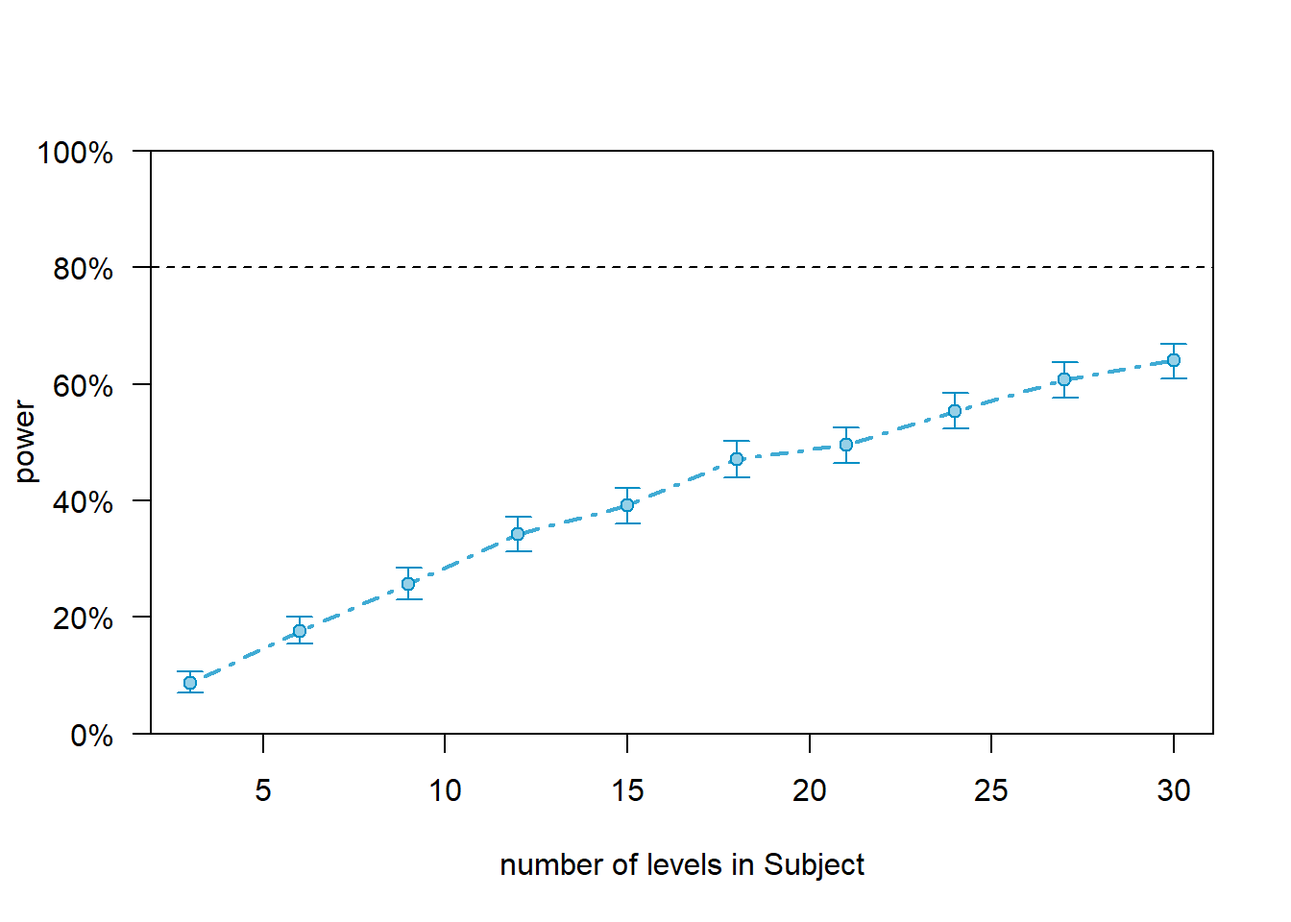
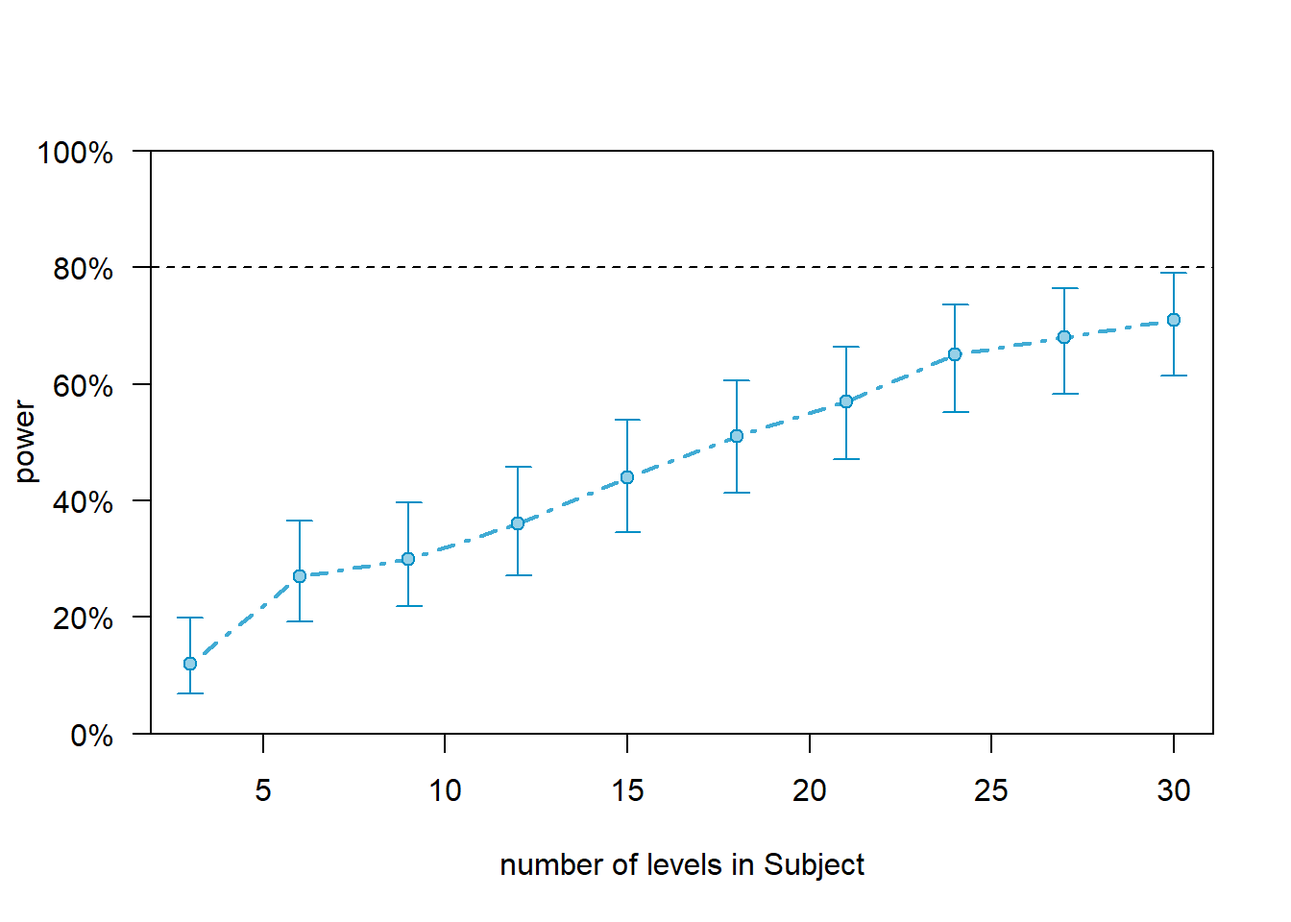
pwr and regression updates

diff --git a/pwr.html b/pwr.html
@@ -14,7 +14,7 @@
 
 <meta name="author" content="Martin Schweinberger" />
 
-<meta name="date" content="2021-04-10" />
+<meta name="date" content="2021-04-16" />
 
 <title>Power Analysis in R</title>
 
@@ -558,7 +558,7 @@ div.tocify {
 
 <h1 class="title toc-ignore">Power Analysis in R</h1>
 <h4 class="author">Martin Schweinberger</h4>
-<h4 class="date">2021-04-10</h4>
+<h4 class="date">2021-04-16</h4>
 
 </div>
 
@@ -627,8 +627,8 @@ simdat &lt;- data.frame(
   dplyr::mutate_if(is.character, factor) %&gt;%
   dplyr::rename(AOI = 4)</code></pre>
 <p>The data looks like this.</p>
-<div id="htmlwidget-9fdee75b28f501d1e669" style="width:100%;height:auto;" class="datatables html-widget"></div>
-<script type="application/json" data-for="htmlwidget-9fdee75b28f501d1e669">{"x":{"filter":"none","caption":"<caption>Overview of the data set.<\/caption>","data":[["Sub1","Sub1","Sub1","Sub1","Sub1","Sub1","Sub1","Sub1","Sub1","Sub1","Sub2","Sub2","Sub2","Sub2","Sub2","Sub2","Sub2","Sub2","Sub2","Sub2","Sub3","Sub3","Sub3","Sub3","Sub3","Sub3","Sub3","Sub3","Sub3","Sub3","Sub4","Sub4","Sub4","Sub4","Sub4","Sub4","Sub4","Sub4","Sub4","Sub4","Sub5","Sub5","Sub5","Sub5","Sub5","Sub5","Sub5","Sub5","Sub5","Sub5","Sub6","Sub6","Sub6","Sub6","Sub6","Sub6","Sub6","Sub6","Sub6","Sub6","Sub7","Sub7","Sub7","Sub7","Sub7","Sub7","Sub7","Sub7","Sub7","Sub7","Sub8","Sub8","Sub8","Sub8","Sub8","Sub8","Sub8","Sub8","Sub8","Sub8","Sub9","Sub9","Sub9","Sub9","Sub9","Sub9","Sub9","Sub9","Sub9","Sub9","Sub10","Sub10","Sub10","Sub10","Sub10","Sub10","Sub10","Sub10","Sub10","Sub10","Sub1","Sub1","Sub1","Sub1","Sub1","Sub1","Sub1","Sub1","Sub1","Sub1","Sub2","Sub2","Sub2","Sub2","Sub2","Sub2","Sub2","Sub2","Sub2","Sub2","Sub3","Sub3","Sub3","Sub3","Sub3","Sub3","Sub3","Sub3","Sub3","Sub3","Sub4","Sub4","Sub4","Sub4","Sub4","Sub4","Sub4","Sub4","Sub4","Sub4","Sub5","Sub5","Sub5","Sub5","Sub5","Sub5","Sub5","Sub5","Sub5","Sub5","Sub6","Sub6","Sub6","Sub6","Sub6","Sub6","Sub6","Sub6","Sub6","Sub6","Sub7","Sub7","Sub7","Sub7","Sub7","Sub7","Sub7","Sub7","Sub7","Sub7","Sub8","Sub8","Sub8","Sub8","Sub8","Sub8","Sub8","Sub8","Sub8","Sub8","Sub9","Sub9","Sub9","Sub9","Sub9","Sub9","Sub9","Sub9","Sub9","Sub9","Sub10","Sub10","Sub10","Sub10","Sub10","Sub10","Sub10","Sub10","Sub10","Sub10"],["Control","Control","Control","Control","Control","Control","Control","Control","Control","Control","Control","Control","Control","Control","Control","Control","Control","Control","Control","Control","Control","Control","Control","Control","Control","Control","Control","Control","Control","Control","Control","Control","Control","Control","Control","Control","Control","Control","Control","Control","Control","Control","Control","Control","Control","Control","Control","Control","Control","Control","Control","Control","Control","Control","Control","Control","Control","Control","Control","Control","Control","Control","Control","Control","Control","Control","Control","Control","Control","Control","Control","Control","Control","Control","Control","Control","Control","Control","Control","Control","Control","Control","Control","Control","Control","Control","Control","Control","Control","Control","Control","Control","Control","Control","Control","Control","Control","Control","Control","Control","Test","Test","Test","Test","Test","Test","Test","Test","Test","Test","Test","Test","Test","Test","Test","Test","Test","Test","Test","Test","Test","Test","Test","Test","Test","Test","Test","Test","Test","Test","Test","Test","Test","Test","Test","Test","Test","Test","Test","Test","Test","Test","Test","Test","Test","Test","Test","Test","Test","Test","Test","Test","Test","Test","Test","Test","Test","Test","Test","Test","Test","Test","Test","Test","Test","Test","Test","Test","Test","Test","Test","Test","Test","Test","Test","Test","Test","Test","Test","Test","Test","Test","Test","Test","Test","Test","Test","Test","Test","Test","Test","Test","Test","Test","Test","Test","Test","Test","Test","Test"],["1","2","3","4","5","6","7","8","9","10","1","2","3","4","5","6","7","8","9","10","1","2","3","4","5","6","7","8","9","10","1","2","3","4","5","6","7","8","9","10","1","2","3","4","5","6","7","8","9","10","1","2","3","4","5","6","7","8","9","10","1","2","3","4","5","6","7","8","9","10","1","2","3","4","5","6","7","8","9","10","1","2","3","4","5","6","7","8","9","10","1","2","3","4","5","6","7","8","9","10","1","2","3","4","5","6","7","8","9","10","1","2","3","4","5","6","7","8","9","10","1","2","3","4","5","6","7","8","9","10","1","2","3","4","5","6","7","8","9","10","1","2","3","4","5","6","7","8","9","10","1","2","3","4","5","6","7","8","9","10","1","2","3","4","5","6","7","8","9","10","1","2","3","4","5","6","7","8","9","10","1","2","3","4","5","6","7","8","9","10","1","2","3","4","5","6","7","8","9","10"],["AOI","NotAOI","NotAOI","AOI","NotAOI","NotAOI","AOI","NotAOI","NotAOI","AOI","NotAOI","NotAOI","AOI","NotAOI","NotAOI","AOI","NotAOI","NotAOI","AOI","NotAOI","AOI","NotAOI","NotAOI","NotAOI","NotAOI","AOI","NotAOI","NotAOI","AOI","NotAOI","NotAOI","NotAOI","NotAOI","NotAOI","NotAOI","NotAOI","NotAOI","NotAOI","AOI","NotAOI","NotAOI","NotAOI","NotAOI","AOI","NotAOI","AOI","NotAOI","NotAOI","NotAOI","NotAOI","NotAOI","NotAOI","NotAOI","NotAOI","NotAOI","AOI","NotAOI","NotAOI","NotAOI","NotAOI","AOI","AOI","NotAOI","NotAOI","NotAOI","NotAOI","AOI","AOI","AOI","AOI","NotAOI","NotAOI","NotAOI","NotAOI","NotAOI","NotAOI","NotAOI","NotAOI","NotAOI","NotAOI","NotAOI","NotAOI","NotAOI","NotAOI","NotAOI","NotAOI","NotAOI","NotAOI","NotAOI","NotAOI","NotAOI","NotAOI","NotAOI","NotAOI","NotAOI","NotAOI","NotAOI","NotAOI","NotAOI","NotAOI","NotAOI","AOI","AOI","NotAOI","AOI","AOI","NotAOI","AOI","NotAOI","AOI","AOI","NotAOI","NotAOI","NotAOI","NotAOI","AOI","NotAOI","AOI","AOI","NotAOI","AOI","NotAOI","NotAOI","NotAOI","NotAOI","NotAOI","AOI","NotAOI","NotAOI","NotAOI","AOI","NotAOI","AOI","NotAOI","AOI","NotAOI","NotAOI","NotAOI","AOI","AOI","NotAOI","NotAOI","NotAOI","NotAOI","NotAOI","AOI","AOI","AOI","NotAOI","AOI","NotAOI","NotAOI","NotAOI","AOI","NotAOI","NotAOI","NotAOI","NotAOI","NotAOI","NotAOI","NotAOI","NotAOI","NotAOI","AOI","NotAOI","NotAOI","AOI","NotAOI","NotAOI","NotAOI","AOI","NotAOI","NotAOI","NotAOI","NotAOI","NotAOI","AOI","AOI","AOI","AOI","AOI","NotAOI","NotAOI","AOI","AOI","AOI","NotAOI","NotAOI","NotAOI","AOI","NotAOI","NotAOI","NotAOI","NotAOI","NotAOI","NotAOI","NotAOI","NotAOI","NotAOI","NotAOI"]],"container":"<table class=\"display\">\n  <thead>\n    <tr>\n      <th>Subject<\/th>\n      <th>Condition<\/th>\n      <th>Item<\/th>\n      <th>AOI<\/th>\n    <\/tr>\n  <\/thead>\n<\/table>","options":{"pageLength":10,"scrollX":true,"order":[],"autoWidth":false,"orderClasses":false}},"evals":[],"jsHooks":[]}</script>
+<div id="htmlwidget-53c9c624b5613a192ece" style="width:100%;height:auto;" class="datatables html-widget"></div>
+<script type="application/json" data-for="htmlwidget-53c9c624b5613a192ece">{"x":{"filter":"none","caption":"<caption>Overview of the data set.<\/caption>","data":[["Sub1","Sub1","Sub1","Sub1","Sub1","Sub1","Sub1","Sub1","Sub1","Sub1","Sub2","Sub2","Sub2","Sub2","Sub2","Sub2","Sub2","Sub2","Sub2","Sub2","Sub3","Sub3","Sub3","Sub3","Sub3","Sub3","Sub3","Sub3","Sub3","Sub3","Sub4","Sub4","Sub4","Sub4","Sub4","Sub4","Sub4","Sub4","Sub4","Sub4","Sub5","Sub5","Sub5","Sub5","Sub5","Sub5","Sub5","Sub5","Sub5","Sub5","Sub6","Sub6","Sub6","Sub6","Sub6","Sub6","Sub6","Sub6","Sub6","Sub6","Sub7","Sub7","Sub7","Sub7","Sub7","Sub7","Sub7","Sub7","Sub7","Sub7","Sub8","Sub8","Sub8","Sub8","Sub8","Sub8","Sub8","Sub8","Sub8","Sub8","Sub9","Sub9","Sub9","Sub9","Sub9","Sub9","Sub9","Sub9","Sub9","Sub9","Sub10","Sub10","Sub10","Sub10","Sub10","Sub10","Sub10","Sub10","Sub10","Sub10","Sub1","Sub1","Sub1","Sub1","Sub1","Sub1","Sub1","Sub1","Sub1","Sub1","Sub2","Sub2","Sub2","Sub2","Sub2","Sub2","Sub2","Sub2","Sub2","Sub2","Sub3","Sub3","Sub3","Sub3","Sub3","Sub3","Sub3","Sub3","Sub3","Sub3","Sub4","Sub4","Sub4","Sub4","Sub4","Sub4","Sub4","Sub4","Sub4","Sub4","Sub5","Sub5","Sub5","Sub5","Sub5","Sub5","Sub5","Sub5","Sub5","Sub5","Sub6","Sub6","Sub6","Sub6","Sub6","Sub6","Sub6","Sub6","Sub6","Sub6","Sub7","Sub7","Sub7","Sub7","Sub7","Sub7","Sub7","Sub7","Sub7","Sub7","Sub8","Sub8","Sub8","Sub8","Sub8","Sub8","Sub8","Sub8","Sub8","Sub8","Sub9","Sub9","Sub9","Sub9","Sub9","Sub9","Sub9","Sub9","Sub9","Sub9","Sub10","Sub10","Sub10","Sub10","Sub10","Sub10","Sub10","Sub10","Sub10","Sub10"],["Control","Control","Control","Control","Control","Control","Control","Control","Control","Control","Control","Control","Control","Control","Control","Control","Control","Control","Control","Control","Control","Control","Control","Control","Control","Control","Control","Control","Control","Control","Control","Control","Control","Control","Control","Control","Control","Control","Control","Control","Control","Control","Control","Control","Control","Control","Control","Control","Control","Control","Control","Control","Control","Control","Control","Control","Control","Control","Control","Control","Control","Control","Control","Control","Control","Control","Control","Control","Control","Control","Control","Control","Control","Control","Control","Control","Control","Control","Control","Control","Control","Control","Control","Control","Control","Control","Control","Control","Control","Control","Control","Control","Control","Control","Control","Control","Control","Control","Control","Control","Test","Test","Test","Test","Test","Test","Test","Test","Test","Test","Test","Test","Test","Test","Test","Test","Test","Test","Test","Test","Test","Test","Test","Test","Test","Test","Test","Test","Test","Test","Test","Test","Test","Test","Test","Test","Test","Test","Test","Test","Test","Test","Test","Test","Test","Test","Test","Test","Test","Test","Test","Test","Test","Test","Test","Test","Test","Test","Test","Test","Test","Test","Test","Test","Test","Test","Test","Test","Test","Test","Test","Test","Test","Test","Test","Test","Test","Test","Test","Test","Test","Test","Test","Test","Test","Test","Test","Test","Test","Test","Test","Test","Test","Test","Test","Test","Test","Test","Test","Test"],["1","2","3","4","5","6","7","8","9","10","1","2","3","4","5","6","7","8","9","10","1","2","3","4","5","6","7","8","9","10","1","2","3","4","5","6","7","8","9","10","1","2","3","4","5","6","7","8","9","10","1","2","3","4","5","6","7","8","9","10","1","2","3","4","5","6","7","8","9","10","1","2","3","4","5","6","7","8","9","10","1","2","3","4","5","6","7","8","9","10","1","2","3","4","5","6","7","8","9","10","1","2","3","4","5","6","7","8","9","10","1","2","3","4","5","6","7","8","9","10","1","2","3","4","5","6","7","8","9","10","1","2","3","4","5","6","7","8","9","10","1","2","3","4","5","6","7","8","9","10","1","2","3","4","5","6","7","8","9","10","1","2","3","4","5","6","7","8","9","10","1","2","3","4","5","6","7","8","9","10","1","2","3","4","5","6","7","8","9","10","1","2","3","4","5","6","7","8","9","10"],["NotAOI","NotAOI","NotAOI","NotAOI","NotAOI","NotAOI","AOI","NotAOI","NotAOI","AOI","NotAOI","NotAOI","NotAOI","NotAOI","NotAOI","NotAOI","NotAOI","NotAOI","NotAOI","NotAOI","NotAOI","NotAOI","AOI","NotAOI","NotAOI","NotAOI","NotAOI","NotAOI","NotAOI","NotAOI","AOI","NotAOI","NotAOI","NotAOI","NotAOI","AOI","NotAOI","NotAOI","NotAOI","NotAOI","NotAOI","AOI","NotAOI","NotAOI","NotAOI","NotAOI","NotAOI","NotAOI","NotAOI","AOI","NotAOI","NotAOI","NotAOI","NotAOI","NotAOI","NotAOI","NotAOI","NotAOI","NotAOI","NotAOI","NotAOI","AOI","AOI","NotAOI","NotAOI","NotAOI","AOI","AOI","AOI","NotAOI","NotAOI","NotAOI","NotAOI","NotAOI","NotAOI","NotAOI","AOI","NotAOI","NotAOI","NotAOI","NotAOI","NotAOI","AOI","NotAOI","NotAOI","NotAOI","NotAOI","NotAOI","AOI","NotAOI","NotAOI","NotAOI","AOI","AOI","AOI","NotAOI","NotAOI","NotAOI","NotAOI","AOI","NotAOI","NotAOI","NotAOI","AOI","NotAOI","NotAOI","AOI","NotAOI","NotAOI","NotAOI","AOI","NotAOI","NotAOI","NotAOI","NotAOI","AOI","NotAOI","NotAOI","NotAOI","AOI","AOI","NotAOI","NotAOI","NotAOI","NotAOI","NotAOI","AOI","AOI","NotAOI","NotAOI","AOI","NotAOI","NotAOI","NotAOI","AOI","NotAOI","NotAOI","NotAOI","AOI","NotAOI","NotAOI","AOI","AOI","NotAOI","NotAOI","AOI","NotAOI","AOI","NotAOI","NotAOI","NotAOI","NotAOI","AOI","AOI","NotAOI","NotAOI","NotAOI","NotAOI","AOI","NotAOI","NotAOI","NotAOI","NotAOI","AOI","NotAOI","NotAOI","AOI","NotAOI","NotAOI","NotAOI","NotAOI","NotAOI","AOI","NotAOI","NotAOI","NotAOI","NotAOI","AOI","NotAOI","AOI","NotAOI","AOI","AOI","NotAOI","NotAOI","AOI","AOI","NotAOI","AOI","NotAOI","NotAOI","NotAOI","AOI","NotAOI","AOI","NotAOI","NotAOI","NotAOI","AOI","NotAOI"]],"container":"<table class=\"display\">\n  <thead>\n    <tr>\n      <th>Subject<\/th>\n      <th>Condition<\/th>\n      <th>Item<\/th>\n      <th>AOI<\/th>\n    <\/tr>\n  <\/thead>\n<\/table>","options":{"pageLength":10,"scrollX":true,"order":[],"autoWidth":false,"orderClasses":false}},"evals":[],"jsHooks":[]}</script>
 </div>
 </div>
 <div id="post-hoc-power-analysis" class="section level1">
@@ -653,28 +653,30 @@ summary(m1)</code></pre>
 ##    Data: simdat
 ## 
 ##      AIC      BIC   logLik deviance df.resid 
-##    233.2    246.4   -112.6    225.2      196 
+##    229.1    242.3   -110.5    221.1      196 
 ## 
 ## Scaled residuals: 
-##     Min      1Q  Median      3Q     Max 
-## -2.5236 -1.0892  0.4770  0.6275  1.0367 
+##      Min       1Q   Median       3Q      Max 
+## -2.06474 -0.00974  0.48432  0.67028  0.67028 
 ## 
 ## Random effects:
-##  Groups  Name        Variance Std.Dev.
-##  Subject (Intercept) 0.3193   0.5651  
-##  Item    (Intercept) 0.0593   0.2435  
+##  Groups  Name        Variance  Std.Dev. 
+##  Subject (Intercept) 9.989e-15 9.995e-08
+##  Item    (Intercept) 8.228e-15 9.071e-08
 ## Number of obs: 200, groups:  Subject, 10; Item, 10
 ## 
 ## Fixed effects:
 ##               Estimate Std. Error z value Pr(&gt;|z|)    
-## (Intercept)     1.4936     0.3327   4.490 7.12e-06 ***
-## ConditionTest  -0.7706     0.3378  -2.282   0.0225 *  
+## (Intercept)     1.4500     0.2549   5.688 1.28e-08 ***
+## ConditionTest  -0.6499     0.3343  -1.944   0.0519 .  
 ## ---
 ## Signif. codes:  0 &#39;***&#39; 0.001 &#39;**&#39; 0.01 &#39;*&#39; 0.05 &#39;.&#39; 0.1 &#39; &#39; 1
 ## 
 ## Correlation of Fixed Effects:
 ##             (Intr)
-## ConditinTst -0.608</code></pre>
+## ConditinTst -0.763
+## optimizer (Nelder_Mead) convergence code: 0 (OK)
+## boundary (singular) fit: see ?isSingular</code></pre>
 <p>We now check the effect sizes of the predictors in the model. We can do this by displaying the results of the model using the <code>tab_model</code> function from the <code>sjPlot</code> package.</p>
 <pre class="r"><code># load package
 library(sjPlot)
@@ -708,10 +710,10 @@ p
 (Intercept)
 </td>
 <td style=" padding:0.2cm; text-align:left; vertical-align:top; text-align:center;  ">
-4.45
+4.26
 </td>
 <td style=" padding:0.2cm; text-align:left; vertical-align:top; text-align:center;  ">
-2.32 – 8.55
+2.59 – 7.03
 </td>
 <td style=" padding:0.2cm; text-align:left; vertical-align:top; text-align:center;  ">
 <strong>&lt;0.001
@@ -722,13 +724,13 @@ p
 Condition [Test]
 </td>
 <td style=" padding:0.2cm; text-align:left; vertical-align:top; text-align:center;  ">
-0.46
+0.52
 </td>
 <td style=" padding:0.2cm; text-align:left; vertical-align:top; text-align:center;  ">
-0.24 – 0.90
+0.27 – 1.01
 </td>
 <td style=" padding:0.2cm; text-align:left; vertical-align:top; text-align:center;  ">
-<strong>0.023</strong>
+0.052
 </td>
 </tr>
 <tr>
@@ -748,21 +750,14 @@ Random Effects
 τ<sub>00</sub> <sub>Subject</sub>
 </td>
 <td style=" padding:0.2cm; text-align:left; vertical-align:top; padding-top:0.1cm; padding-bottom:0.1cm; text-align:left;" colspan="3">
-0.32
+0.00
 </td>
 <tr>
 <td style=" padding:0.2cm; text-align:left; vertical-align:top; text-align:left; padding-top:0.1cm; padding-bottom:0.1cm;">
 τ<sub>00</sub> <sub>Item</sub>
 </td>
 <td style=" padding:0.2cm; text-align:left; vertical-align:top; padding-top:0.1cm; padding-bottom:0.1cm; text-align:left;" colspan="3">
-0.06
-</td>
-<tr>
-<td style=" padding:0.2cm; text-align:left; vertical-align:top; text-align:left; padding-top:0.1cm; padding-bottom:0.1cm;">
-ICC
-</td>
-<td style=" padding:0.2cm; text-align:left; vertical-align:top; padding-top:0.1cm; padding-bottom:0.1cm; text-align:left;" colspan="3">
-0.10
+0.00
 </td>
 <tr>
 <td style=" padding:0.2cm; text-align:left; vertical-align:top; text-align:left; padding-top:0.1cm; padding-bottom:0.1cm;">
@@ -791,7 +786,7 @@ Observations
 Marginal R<sup>2</sup> / Conditional R<sup>2</sup>
 </td>
 <td style=" padding:0.2cm; text-align:left; vertical-align:top; padding-top:0.1cm; padding-bottom:0.1cm; text-align:left;" colspan="3">
-0.039 / 0.138
+0.031 / NA
 </td>
 </tr>
 </table>
@@ -799,22 +794,28 @@ Marginal R<sup>2</sup> / Conditional R<sup>2</sup>
 <blockquote>
 <p>We use a very low number of simulations (100) and we use the default z-test which is suboptimal for small samples (<span class="citation">Bolker et al. (<a href="#ref-bolker2009generalized" role="doc-biblioref">2009</a>)</span>). In a proper study, you shuld incerase the number of simulations (to at least 1000) and you should use a bootstrapping rather than a z-test (see <span class="citation">Halekoh, Højsgaard, and others (<a href="#ref-halekoh2014kenward" role="doc-biblioref">2014</a>)</span>).</p>
 </blockquote>
+<pre class="r"><code># load package
+library(simr)
+# set seed for replicability
+set.seed(12345)
+# perform power analysis for present model
+rsim0 &lt;- powerSim(m1, fixed(&quot;ConditionTest&quot;, &quot;z&quot;), nsim=100)</code></pre>
 <p>Now we can inspect the results.</p>
 <pre class="r"><code># inspect results
 rsim0</code></pre>
 <pre><code>## Power for predictor &#39;ConditionTest&#39;, (95% confidence interval):
-##       68.00% (57.92, 76.98)
+##       53.00% (42.76, 63.06)
 ## 
 ## Test: z-test
-##       Effect size for ConditionTest is -0.77
+##       Effect size for ConditionTest is -0.65
 ## 
-## Based on 100 simulations, (4 warnings, 0 errors)
+## Based on 100 simulations, (1 warning, 0 errors)
 ## alpha = 0.05, nrow = 200
 ## 
-## Time elapsed: 0 h 0 m 21 s
+## Time elapsed: 0 h 0 m 17 s
 ## 
 ## nb: result might be an observed power calculation</code></pre>
-<p>The results of the power analysis show that, given the data at hand, the model would have detected the effect of Conidition:Test with a probability of 68 percent. However, and as stated above, the results of such post-hoc power calculations (where the target effect size comes from the data) give misleading results (<span class="citation">Hoenig and Heisey (<a href="#ref-hoenig2001abuse" role="doc-biblioref">2001</a>)</span>) and should thus be treated with extreme care!</p>
+<p>The results of the power analysis show that, given the data at hand, the model would have detected the effect of Conidition:Test with a probability of 53 percent. However, and as stated above, the results of such post-hoc power calculations (where the target effect size comes from the data) give misleading results (<span class="citation">Hoenig and Heisey (<a href="#ref-hoenig2001abuse" role="doc-biblioref">2001</a>)</span>) and should thus be treated with extreme care!</p>
 </div>
 <div id="power-analysis-of-set-effects" class="section level1">
 <h1><span class="header-section-number">2</span> Power Analysis of Set Effects</h1>
@@ -828,7 +829,7 @@ rsim0</code></pre>
 <pre class="r"><code>estimatesfixedeffects &lt;- fixef(m1)
 exp(estimatesfixedeffects)</code></pre>
 <pre><code>##   (Intercept) ConditionTest 
-##     4.4532936     0.4627169</code></pre>
+##     4.2631579     0.5221027</code></pre>
 <p>We can see that the effect is rather small which makes it very hard to detect an effect. We will now change the size of the effect of ConditionTest to represent a truly <em>small</em> effect, i.e. on the brink of being noise but being just strong enough to be considered small. In other words, we will set the effect so that its odds ratio is exactly 1.68.</p>
 <pre class="r"><code># set seed for replicability
 set.seed(12345)
@@ -837,13 +838,17 @@ fixef(m1)[&quot;ConditionTest&quot;] &lt;- 0.519
 estimatesfixedeffects &lt;- fixef(m1)
 exp(estimatesfixedeffects)</code></pre>
 <pre><code>##   (Intercept) ConditionTest 
-##      4.453294      1.680346</code></pre>
+##      4.263158      1.680346</code></pre>
 <p>Now we can test if the sample size of the model is sufficient to find a small effect.</p>
+<pre class="r"><code># set seed for replicability
+set.seed(12345)
+# perform power analysis for present model
+rsim1 &lt;- powerSim(m1, fixed(&quot;ConditionTest&quot;, &quot;z&quot;), nsim=100)</code></pre>
 <p>The results are shown below.</p>
 <pre class="r"><code># show results
 rsim1</code></pre>
 <pre><code>## Power for predictor &#39;ConditionTest&#39;, (95% confidence interval):
-##       29.00% (20.36, 38.93)
+##       26.00% (17.74, 35.73)
 ## 
 ## Test: z-test
 ##       Effect size for ConditionTest is 0.52
@@ -851,88 +856,103 @@ rsim1</code></pre>
 ## Based on 100 simulations, (3 warnings, 0 errors)
 ## alpha = 0.05, nrow = 200
 ## 
-## Time elapsed: 0 h 0 m 21 s</code></pre>
-<p>The power analysis shows that the data is sufficient to detect a small effect for Condition:Test with 29 percent accuracy.</p>
+## Time elapsed: 0 h 0 m 17 s</code></pre>
+<p>The power analysis shows that the data is sufficient to detect a small effect for Condition:Test with 26 percent accuracy.</p>
 </div>
 <div id="power-analysis-of-extending-data" class="section level1">
 <h1><span class="header-section-number">3</span> Power Analysis of Extending Data</h1>
 <p>We will now extend the data to see what sample size is needed to get to the 80 percent accuracy threshold. We begin by increasing the number of items from 10 to 30 to see if this would lead to a sufficient sample size.</p>
+<pre class="r"><code># increase sample size
+m2 &lt;- extend(m1, along=&quot;Item&quot;, n=30)
+# perform power simulation
+rsim2 &lt;- powerSim(m2, fixed(&quot;ConditionTest&quot;, &quot;z&quot;), nsim=100)</code></pre>
 <p>The results are shown below.</p>
 <pre class="r"><code># show results
 rsim2</code></pre>
 <pre><code>## Power for predictor &#39;ConditionTest&#39;, (95% confidence interval):
-##       58.00% (47.71, 67.80)
+##       63.00% (52.76, 72.44)
 ## 
 ## Test: z-test
 ##       Effect size for ConditionTest is 0.52
 ## 
-## Based on 100 simulations, (4 warnings, 0 errors)
+## Based on 100 simulations, (1 warning, 0 errors)
 ## alpha = 0.05, nrow = 600
 ## 
-## Time elapsed: 0 h 0 m 35 s</code></pre>
-<p>By increasing the number of items to 30, we would now be able to detect a small effect (d=.2) with an accuracy of 58 percent. This means that we would have to add more items as 30 is not yet sufficient.</p>
+## Time elapsed: 0 h 0 m 26 s</code></pre>
+<p>By increasing the number of items to 30, we would now be able to detect a small effect (d=.2) with an accuracy of 63 percent. This means that we would have to add more items as 30 is not yet sufficient.</p>
 </div>
 <div id="power-analysis-for-ranges" class="section level1">
 <h1><span class="header-section-number">4</span> Power Analysis for Ranges</h1>
 <p>We can also check the accuracy for a range of values as shown below. We begin by extending the number of Items.</p>
+<pre class="r"><code>pc2 &lt;- powerCurve(m2, fixed(&quot;ConditionTest&quot;, &quot;z&quot;), along = &quot;Item&quot;, nsim=100)</code></pre>
 <p>The results are shown below.</p>
 <pre class="r"><code># show results
 print(pc2)</code></pre>
 <pre><code>## Power for predictor &#39;ConditionTest&#39;, (95% confidence interval),
 ## by number of levels in Item:
-##       3:  8.80% ( 7.12, 10.73) - 60 rows
-##       6: 19.30% (16.90, 21.89) - 120 rows
-##       9: 25.60% (22.92, 28.42) - 180 rows
-##      12: 30.80% (27.95, 33.76) - 240 rows
-##      15: 37.30% (34.29, 40.38) - 300 rows
-##      18: 42.50% (39.41, 45.63) - 360 rows
-##      21: 47.10% (43.97, 50.25) - 420 rows
-##      24: 53.40% (50.25, 56.53) - 480 rows
-##      27: 58.80% (55.68, 61.87) - 540 rows
-##      30: 63.00% (59.92, 66.00) - 600 rows
+##       3:  5.00% ( 1.64, 11.28) - 60 rows
+##       6: 20.00% (12.67, 29.18) - 120 rows
+##       9: 29.00% (20.36, 38.93) - 180 rows
+##      12: 33.00% (23.92, 43.12) - 240 rows
+##      15: 43.00% (33.14, 53.29) - 300 rows
+##      18: 47.00% (36.94, 57.24) - 360 rows
+##      21: 51.00% (40.80, 61.14) - 420 rows
+##      24: 55.00% (44.73, 64.97) - 480 rows
+##      27: 59.00% (48.71, 68.74) - 540 rows
+##      30: 62.00% (51.75, 71.52) - 600 rows
 ## 
-## Time elapsed: 0 h 35 m 55 s</code></pre>
+## Time elapsed: 0 h 2 m 41 s</code></pre>
 <p>In addition, we can plot the results as follows:</p>
 <pre class="r"><code>plot(pc2)</code></pre>
 <p><img src="pwr_files/figure-html/pwr17-1.png" width="672" /></p>
 <p>Instead of increasing the number of Items, we could also increase the number of Subjects. So below, we test check the accuracy for up to 30 subjects.</p>
+<pre class="r"><code>m3 &lt;- extend(m1, along=&quot;Subject&quot;, n=30)
+# perform power calculation
+pc3 &lt;- powerCurve(m3, fixed(&quot;ConditionTest&quot;, &quot;z&quot;), along=&quot;Subject&quot;, nsim=100)</code></pre>
 <p>The results are shown below.</p>
 <pre class="r"><code># print results
 print(pc3)</code></pre>
 <pre><code>## Power for predictor &#39;ConditionTest&#39;, (95% confidence interval),
 ## by number of levels in Subject:
-##       3:  8.70% ( 7.03, 10.62) - 60 rows
-##       6: 17.60% (15.29, 20.10) - 120 rows
-##       9: 25.60% (22.92, 28.42) - 180 rows
-##      12: 34.20% (31.26, 37.23) - 240 rows
-##      15: 39.10% (36.06, 42.20) - 300 rows
-##      18: 47.10% (43.97, 50.25) - 360 rows
-##      21: 49.50% (46.36, 52.65) - 420 rows
-##      24: 55.40% (52.26, 58.51) - 480 rows
-##      27: 60.70% (57.59, 63.74) - 540 rows
-##      30: 64.00% (60.94, 66.98) - 600 rows
+##       3: 12.00% ( 6.36, 20.02) - 60 rows
+##       6: 27.00% (18.61, 36.80) - 120 rows
+##       9: 30.00% (21.24, 39.98) - 180 rows
+##      12: 36.00% (26.64, 46.21) - 240 rows
+##      15: 44.00% (34.08, 54.28) - 300 rows
+##      18: 51.00% (40.80, 61.14) - 360 rows
+##      21: 57.00% (46.71, 66.86) - 420 rows
+##      24: 65.00% (54.82, 74.27) - 480 rows
+##      27: 68.00% (57.92, 76.98) - 540 rows
+##      30: 71.00% (61.07, 79.64) - 600 rows
 ## 
-## Time elapsed: 0 h 32 m 45 s</code></pre>
+## Time elapsed: 0 h 2 m 40 s</code></pre>
 <p>Again, we can also visualize the results.</p>
 <pre class="r"><code># visualize results
 plot(pc3) </code></pre>
 <p><img src="pwr_files/figure-html/pwr20-1.png" width="672" /></p>
+<p>The results show that we breach the 80 percent threshold with 30 subjects.</p>
 <p>Finally, it may be an option to increase the number of data points within subjects and items (while the number of items and subjects remain constant).</p>
+<pre class="r"><code>m4 &lt;- extend(m1, within=&quot;Item+Subject&quot;, n=15)
+# perform power calculation
+pc4 &lt;- powerCurve(m4, fixed(&quot;ConditionTest&quot;, &quot;z&quot;), within=&quot;Item+Subject&quot;, breaks=c(5, 10, 15), nsim=100)</code></pre>
 <p>The results are shown below.</p>
 <pre class="r"><code># show results
 print(pc4)</code></pre>
 <pre><code>## Power for predictor &#39;ConditionTest&#39;, (95% confidence interval),
 ## by number of observations within Item+Subject:
-##      10: 85.10% (82.74, 87.25) - 1000 rows
-##      12: 90.00% (87.97, 91.79) - 1200 rows
-##      14: 93.50% (91.79, 94.95) - 1400 rows
+##       5: 57.00% (46.71, 66.86) - 500 rows
+##      10: 81.00% (71.93, 88.16) - 1000 rows
+##      15: 97.00% (91.48, 99.38) - 1500 rows
 ## 
-## Time elapsed: 0 h 24 m 7 s</code></pre>
-<p>The results show that we would have a sufficient data set if we had 14 observations per Subject in each Item because with 14 observations, the accuracy breaches the 80 percent level.</p>
+## Time elapsed: 0 h 1 m 30 s</code></pre>
+<pre class="r"><code># show results
+plot(pc4)</code></pre>
+<p><img src="pwr_files/figure-html/pwr23-1.png" width="672" /></p>
+<p>The results show that we would have a sufficient data set if we had 14 observations per Subject in each Item because with 10 observations, the accuracy breaches the 80 percent level.</p>
 </div>
 <div id="citation-session-info" class="section level1 unnumbered">
 <h1>Citation &amp; Session Info</h1>
-<p>Schweinberger, Martin. 2021. <em>Power Analysis in R</em>. Brisbane: The University of Queensland. url: <a href="https://slcladal.github.io/clust.html" class="uri">https://slcladal.github.io/clust.html</a> (Version 2021.04.10).</p>
+<p>Schweinberger, Martin. 2021. <em>Power Analysis in R</em>. Brisbane: The University of Queensland. url: <a href="https://slcladal.github.io/clust.html" class="uri">https://slcladal.github.io/clust.html</a> (Version 2021.04.16).</p>
 <pre><code>@manual{schweinberger2021pwr,
   author = {Schweinberger, Martin},
   title = {Power Analysis in R},
@@ -940,7 +960,7 @@ print(pc4)</code></pre>
   year = {2021},
   organization = &quot;The University of Queensland, Australia. School of Languages and Cultures},
   address = {Brisbane},
-  edition = {2021.04.10}
+  edition = {2021.04.16}
 }</code></pre>
 <pre class="r"><code>sessionInfo()</code></pre>
 <pre><code>## R version 4.0.3 (2020-10-10)
